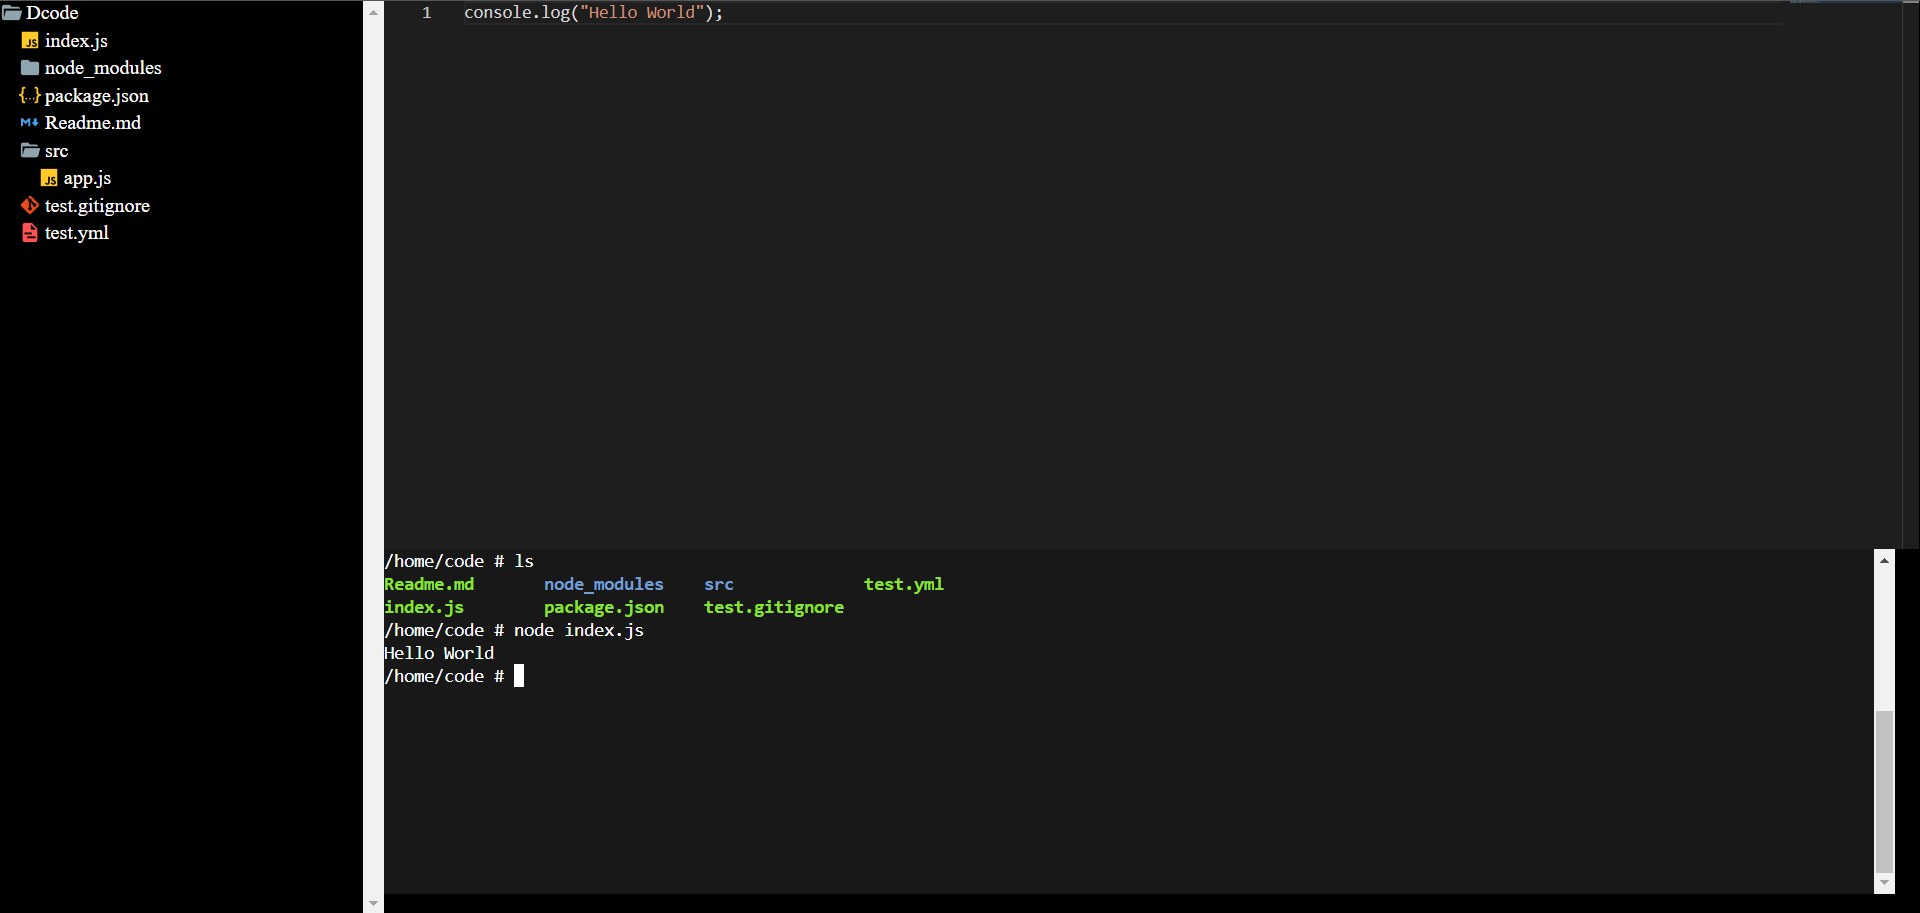
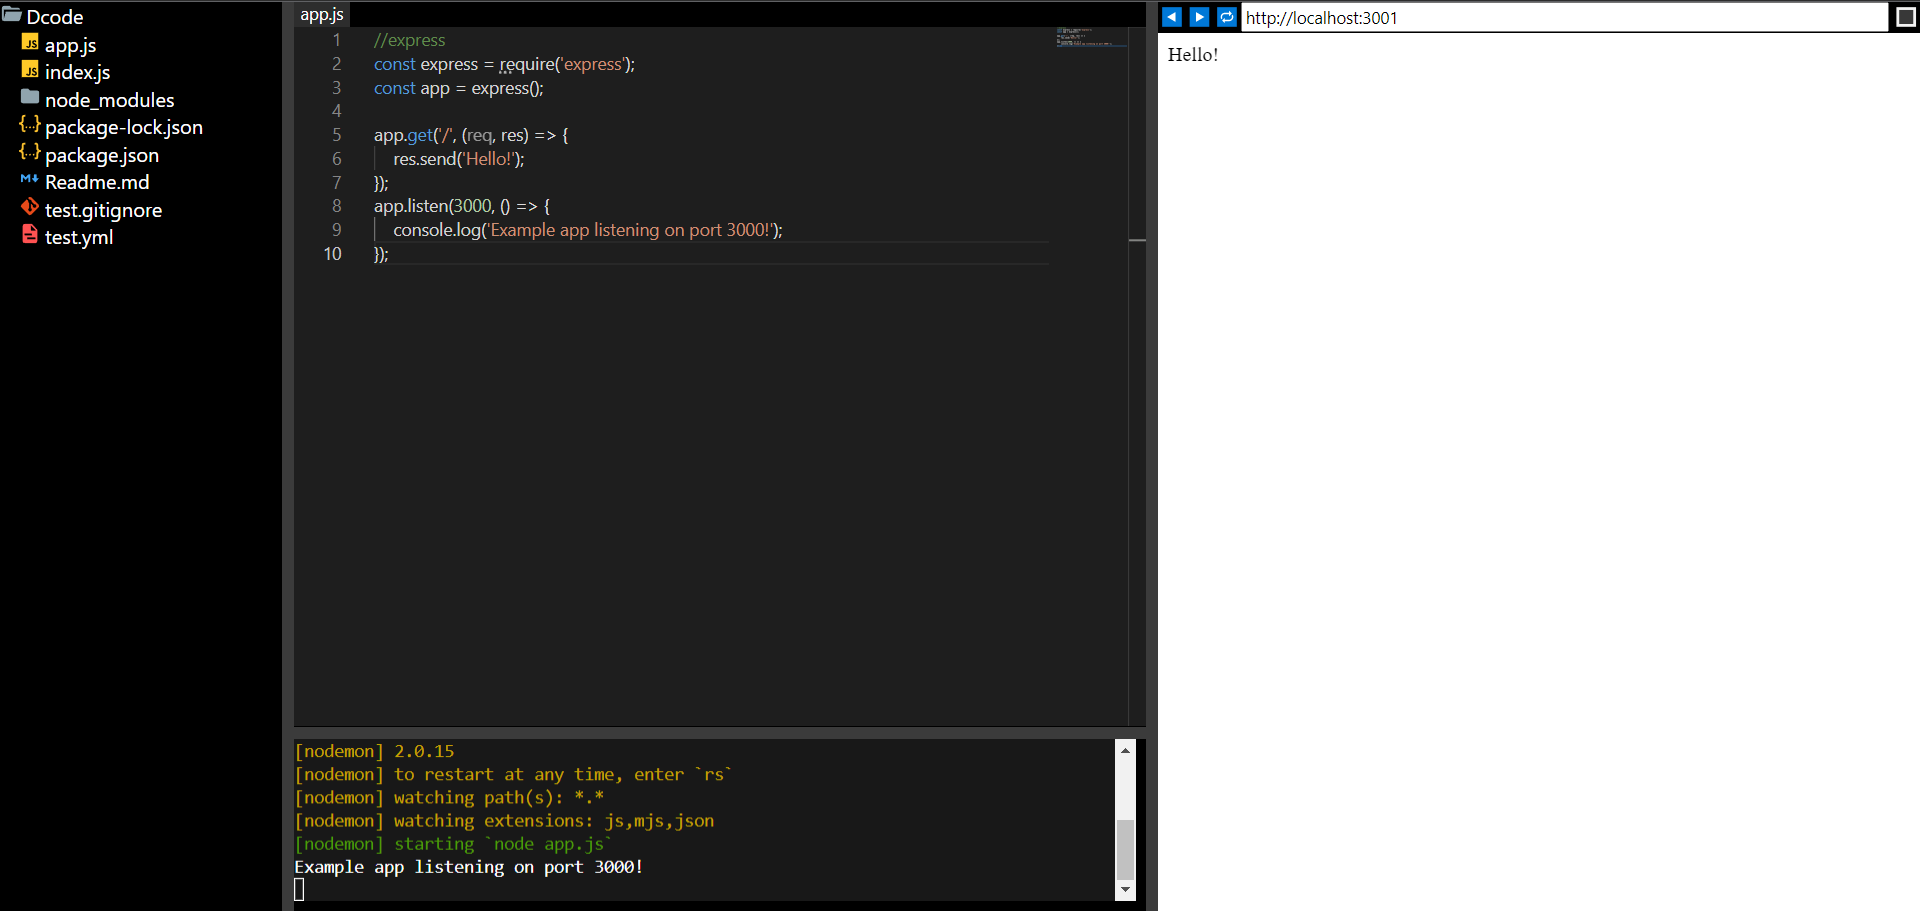
iframe added

diff --git a/client/src/App.jsx b/client/src/App.jsx
@@ -4,12 +4,14 @@ import { useEffect, useState } from "react";
 import Split from "react-split";
 import socket from "./helper.jsx";
 import Folder from "./Components/Folder";
+import Browser from "./Components/Browser";
 import "./app.css";
 const App = () => {
   const [selectedLang, setSelectedLang] = useState("javascript");
   const [code, setCode] = useState("");
   const [files, setfiles] = useState([]);
   const [selectedFile, setSelectedFile] = useState("/Dcode/index.js");
+  const [link, setlink] = useState("http://localhost:3001");
 
   useEffect(() => {
     socket.emit("content", selectedFile); //send the file name to the server
@@ -31,17 +33,16 @@ const App = () => {
 
   return (
     <Split
-      sizes={[15, 85]}
+      sizes={[15, 45, 40]}
       style={{
-        display: "flex",
         background: "black",
-        width: "100%",
         height: "100vh",
       }}
+      className="w-100 flex"
     >
       <div
         className="filesys"
-        style={{ width: "20%", color: "white", overflowY: "scroll" }}
+        style={{ width: "20%", color: "white", overflowY: "auto" }}
       >
         <Folder
           explorer={files}
@@ -49,23 +50,29 @@ const App = () => {
           setFile={setSelectedFile}
         />
       </div>
-      <Split direction="vertical" sizes={[70, 30]}>
-        <Editor
-          height="60vh"
-          defaultLanguage={selectedLang}
-          theme="vs-dark"
-          defaultValue={code}
-          onChange={(value) => {
-            setCode(value);
-          }}
-          language={selectedLang}
-          value={code}
-          options={{
-            scrollBeyondLastLine: false,
-          }}
-        />
+      <Split direction="vertical" sizes={[80, 20]}>
+        <div>
+          <div style={{width: "max-content", height: "20px", color: "white",background:"#2d2d2d"}}>
+            <p style={{margin:"0px 5px 0px 5px",fontSize:"smaller"}}>{selectedFile.split("\\").slice(-1)[0]}</p>
+          </div>
+          <Editor
+            height="calc(100% - 20px)"
+            defaultLanguage={selectedLang}
+            theme="vs-dark"
+            defaultValue={code}
+            onChange={(value) => {
+              setCode(value);
+            }}
+            language={selectedLang}
+            value={code}
+            options={{
+              scrollBeyondLastLine: false,
+            }}
+          />
+        </div>
         <TerminalEditor />
       </Split>
+      <Browser link={link} setlink={setlink} />
     </Split>
   );
 };

diff --git a/client/src/Components/Browser.jsx b/client/src/Components/Browser.jsx
@@ -1,0 +1,58 @@
+import React, { useRef } from "react";
+const Browser = ({ link, setlink }) => {
+  const frame = useRef(null);
+  return (
+    <div className="w-100 h-100">
+      <div
+        style={{
+          height: "3%",
+        }}
+        className="w-100"
+      >
+        <div
+          style={{
+            padding: 0,
+            cursor: "pointer",
+            justifyContent: "space-between",
+          }}
+          className="flex m-0"
+        >
+          <div className="flex">
+            <p className="m-0">◀</p>
+            <p className="m-0">▶</p>
+            <p
+              onClick={() => {
+                document.getElementById("iframe").src += "";
+              }}
+              className="m-0"
+            >
+              🔁
+            </p>
+          </div>
+          <div className="w-100">
+            <input type="text" defaultValue={link} style={{ width: "98%" }} />
+          </div>
+          <a href={link} target="_blank" id="button">
+            🔳
+          </a>
+        </div>
+      </div>
+      <iframe
+        ref={frame}
+        id="iframe"
+        title="output"
+        src={link}
+        frameBorder="0"
+        style={{
+          border: "0",
+          background: "white",
+          height: "96%",
+          margin: "3px 0 0 0",
+        }}
+        className="w-100"
+      ></iframe>
+    </div>
+  );
+};
+
+export default Browser;

diff --git a/client/src/app.css b/client/src/app.css
@@ -1,12 +1,43 @@
-.gutter{
-    background-color: #3b3b3b;
+* {
+  font-family: Inter var, ui-sans-serif, system-ui, -apple-system,
+    BlinkMacSystemFont, Segoe UI, Roboto, Helvetica Neue, Arial, Noto Sans,
+    sans-serif, Apple Color Emoji, Segoe UI Emoji, Segoe UI Symbol,
+    Noto Color Emoji;
 }
-.gutter:hover{
-    background-color: #14b3ff;
+
+.m-0 {
+  margin: 0;
 }
-.gutter-vertical{
-    cursor: row-resize;
+.w-100 {
+  width: 100%;
 }
-.gutter-horizontal{
-    cursor: col-resize;
+.h-100 {
+  height: 100%;
+}
+.flex {
+  display: flex;
+}
+
+/* splitz */
+.gutter {
+  background-color: #3b3b3b;
+}
+.gutter:hover {
+  background-color: #14b3ff;
+}
+.gutter-vertical {
+  cursor: row-resize;
+}
+.gutter-horizontal {
+  cursor: col-resize;
+}
+
+/* terminal */
+#terminal-container {
+  width: 100%;
+  height: 100%;
+}
+
+.function {
+  display: inline-block;
 }

diff --git a/client/src/Components/Terminal.jsx b/client/src/Components/Terminal.jsx
@@ -2,7 +2,6 @@ import { useEffect, useRef } from "react";
 import { Terminal } from "xterm";
 import { FitAddon } from "xterm-addon-fit";
 import "xterm/css/xterm.css";
-import "./terminal.css";
 import socket from "../helper.jsx";
 const TerminalEditor = () => {
   const terminalContainer = useRef(null);

diff --git a/client/src/Components/folder.css b/client/src/Components/folder.css
@@ -1,7 +1,3 @@
-.flex{
-  display: flex;
-}
-
 .flex::before{
   margin-right: 3px;
 }
